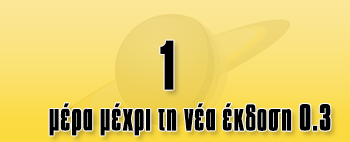
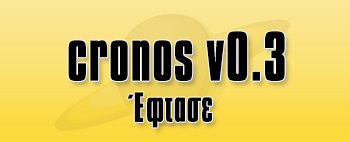
New release 0.3 !!

diff --git a/cronos/static/css/style_intro.css b/cronos/static/css/style_intro.css
@@ -2,7 +2,7 @@ body { background: #efefef url("/static/img/login_bg.png") repeat-x; }
 
 #container { width: 750px; margin: 0 auto; }
 
-h1 { width: 450px; height: 230px; margin: 0 auto; background: url("/static/img/countdown_0.3_logo.png") 0px -50px no-repeat; text-indent: -9999px; }
+h1 { width: 450px; height: 230px; margin: 0 auto; background: url("/static/img/logo_login.png") 0px -50px no-repeat; text-indent: -9999px; }
 
 h3 { margin: 10px 0 0 0; font: bold 20px Verdana,Arial,sans-serif; color: #786721; }
 
